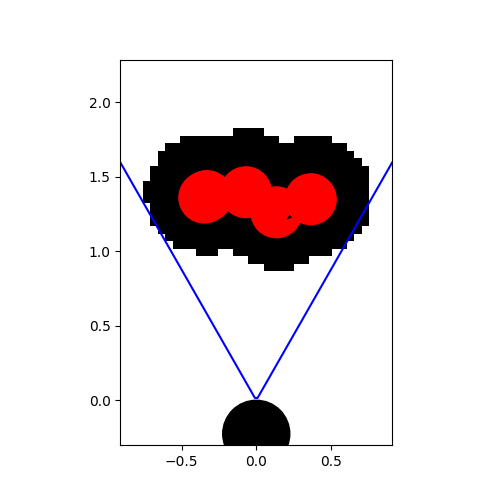
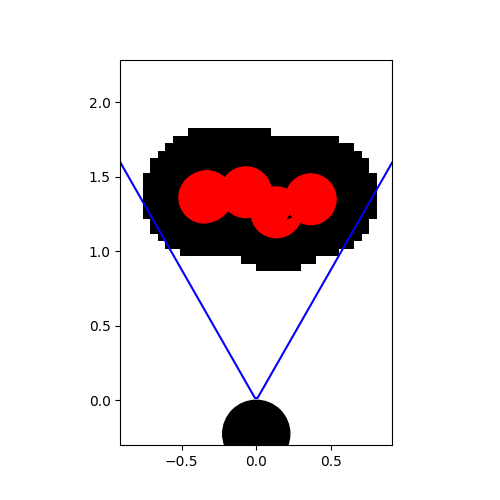
.

diff --git a/Arlo/python/Exercises/from_picture_Ex4_2.py b/Arlo/python/Exercises/from_picture_Ex4_2.py
@@ -44,7 +44,7 @@ def simplify_path(path, occupancy_map):
 def is_collision_free(p1, p2, occupancy_map):
     """Check if the straight line between p1 and p2 is free of obstacles."""
     distance = np.linalg.norm(np.array(p2) - np.array(p1))
-    steps = int(np.ceil(distance / (occupancy_map.resolution * 0.5)))  # More conservative
+    steps = int(np.ceil(distance / (occupancy_map.resolution)))  # More conservative
     for t in np.linspace(0, 1, steps):
         point = (1 - t) * np.array(p1) + t * np.array(p2)
         if occupancy_map.in_collision(point):
@@ -100,9 +100,12 @@ path_res = 0.05
 map = GridOccupancyMap(low=(-maximum_absolute_value-0.5, -0.3), high=(maximum_absolute_value+0.5, max(z_es)+1), res=path_res)
 for i in range(map.n_grids[0]):
     for j in range(map.n_grids[1]):
-        centroid = np.array([map.map_area[0][0] + map.resolution * (i+0.5), map.map_area[0][1] + map.resolution * (j+0.5)])
+        centroid = np.array([
+            map.map_area[0][0] + map.resolution * (i+0.5),
+            map.map_area[0][1] + map.resolution * (j+0.5)
+            ])
         for o in obstacle_centers:
-            if np.linalg.norm(centroid - o) <= BOX_RADIUS + ROBOT_RADIUS:
+            if np.linalg.norm(centroid - o) <= BOX_RADIUS + ROBOT_RADIUS + 0.5 * map.resolution:
                 map.grid[i, j] = 1
                 break
 
@@ -139,7 +142,7 @@ with writer.saving(fig, "rrt_test.mp4", 100):
 
         if show_animation:
             rrt.draw_graph()
-            plt.plot([x for (x, y) in path], [y for (x, y) in path], '-r', color= "blue")
+            plt.plot([x for (x, y) in path], [y for (x, y) in path], '-b')
             plt.plot([x for (x, y) in simple_path], [y for (x, y) in simple_path], '-r')
             plt.grid(True)
             plt.pause(0.01)  # Needed for Mac
